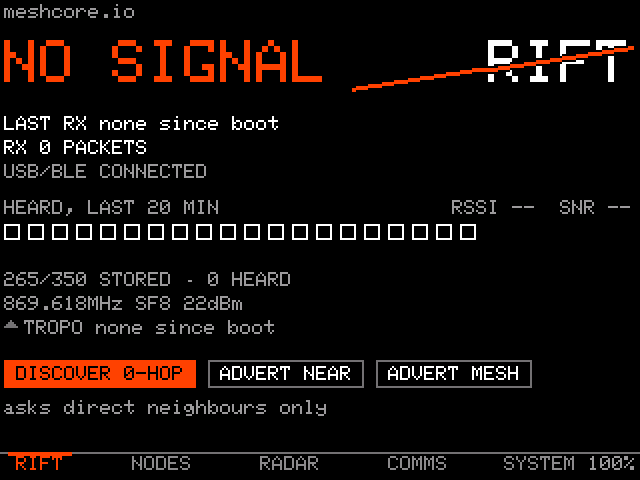
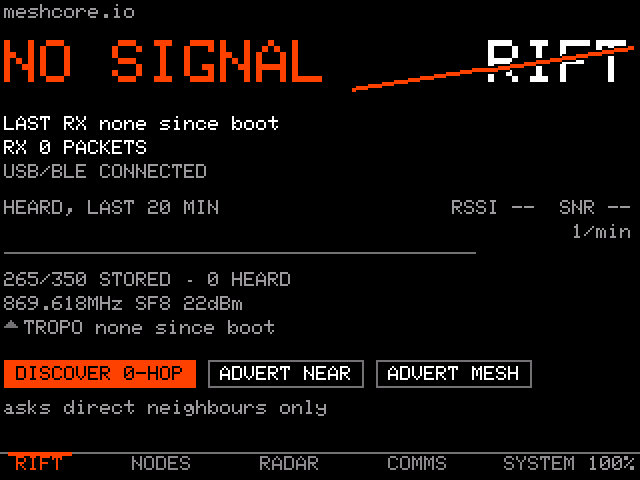
Channel scope joins add and remove in the COMMS list, and the home strip is a graph
The scope setting acts on a channel, so it sits with the other two channel
actions at the end of the CHANNELS section in the conversation list, and leaves
SYSTEM's actions. The flow itself is unchanged and still runs on SYSTEM.

The activity strip on the home screen is a bar graph: twenty bars, one per
minute, each as tall as that minute's share of the busiest minute in the
window, on a 1px baseline, with the busiest count printed beside it so the bars
have a scale. In the accent, at the owner's request. The September design round
reserved the accent for active tab, selection, warning and the wordmark, and
this is a fifth use - stated in the code so it is a decision and not a drift.

Builds.

Changed region(s): [[0.0, 0.4688, 0.75, 0.5312], [0.875, 0.4688, 1.0, 0.5]]

diff --git a/examples/companion_radio/ui-rift/UITask.cpp b/examples/companion_radio/ui-rift/UITask.cpp
@@ -1586,21 +1586,26 @@ public:
                      : (the_mesh.getBLEPin() != 0 ? "BLE PAIRING" : "NO HOST");
     display.drawTextLeftAlign(2, 82, link);
 
-    // The activity strip: twenty cells, one per minute, oldest on the left,
-    // filled when anything was heard in that minute. It replaced a radar
-    // animation that showed only that the screen was drawing, and it is the
-    // literal answer to the screen's question. Read from the air log, which
-    // already carries every receive with its time, so it needs no state of its
-    // own; on a mesh so busy the log turns over inside twenty minutes every
-    // cell is filled anyway. QUIET is carried here in form as well as in the
-    // word's grey, so the grey is not the only bearer.
+    // The activity graph: twenty bars, one per minute, oldest on the left, each
+    // as tall as that minute's share of the busiest minute in the window, on a
+    // 1px baseline in rule. It replaced a radar animation that showed only that
+    // the screen was drawing, and it is the literal answer to the screen's
+    // question. Read from the air log, which already carries every receive with
+    // its time, so it needs no state of its own; on a mesh so busy the log turns
+    // over inside twenty minutes the newest bars are the true ones and the
+    // oldest under-count, which is the honest direction to be wrong in.
+    //
+    // In the accent, at the owner's request. The design round reserved the
+    // accent for active tab, selection, warning and wordmark; this is a fifth
+    // use, stated here so it is a decision and not a drift.
     char tmp[40];
     display.setTextSize(1);
     display.setColor(rift_pal.mid);
     display.drawTextLeftAlign(2, 100, "HEARD, LAST 20 MIN");
     {
-      bool heard[20];
-      for (int i = 0; i < 20; i++) heard[i] = false;
+      const int GX = 2, GY = 110, GH = 16;   // bars grow upward from y GY+GH
+      uint16_t per_min[20];
+      for (int i = 0; i < 20; i++) per_min[i] = 0;
       uint32_t now_ms = (uint32_t) millis();
       RiftRxLog& log = riftRxLog();
       for (int i = 0; i < log.count; i++) {
@@ -1608,13 +1613,24 @@ public:
         if (e == NULL) break;
         if (e->dir != RIFT_AIR_RX) continue;
         uint32_t back = (now_ms - e->at_ms) / 60000u;
-        if (back < 20) heard[19 - back] = true;
+        if (back < 20 && per_min[19 - back] < 0xFFFF) per_min[19 - back]++;
       }
-      display.setColor(rift_pal.fg);
+      uint16_t peak = 1;
+      for (int i = 0; i < 20; i++) if (per_min[i] > peak) peak = per_min[i];
+
+      display.setColor(rift_pal.rule);
+      display.fillRect(GX, GY + GH, 20 * 12 - 4, 1);
+      display.setColor(rift_pal.accent);
       for (int i = 0; i < 20; i++) {
-        if (heard[i]) display.fillRect(2 + 12 * i, 112, 8, 8);
-        else          display.drawRect(2 + 12 * i, 112, 8, 8);
+        if (per_min[i] == 0) continue;
+        int h = 1 + (int) (((long) per_min[i] * (GH - 1) + peak / 2) / peak);
+        if (h > GH) h = GH;
+        display.fillRect(GX + 12 * i, GY + GH - h, 8, h);
       }
+      // the busiest minute, so the bars have a scale
+      snprintf(tmp, sizeof(tmp), "%u/min", (unsigned) peak);
+      display.setColor(rift_pal.mid);
+      display.drawTextRightAlign(316, 112, tmp);
     }
 
     // Two numbers with their names, on the strip's label row. "LINK -80 / -4"
@@ -1935,6 +1951,7 @@ class RiftSystemScreen : public RiftScreen {
 public:
   void beginAddChannel(bool from_comms)    { _return_to_comms = from_comms; activate(IT_CHANNEL); }
   void beginDeleteChannel(bool from_comms) { _return_to_comms = from_comms; activate(IT_DELCHANNEL); }
+  void beginChannelScope(bool from_comms)  { _return_to_comms = from_comms; activate(IT_SCOPE); }
 private:
 
   // shared by render() and handleTouch(), so touch targets follow the layout.
@@ -2809,7 +2826,7 @@ public:
       // list, beside the channels they act on.
       addRow(ROW_GROUP, -1, "ACTIONS");
       for (int i = 0; i < IT_COUNT; i++) {
-        if (i == IT_CHANNEL || i == IT_DELCHANNEL) continue;
+        if (i == IT_CHANNEL || i == IT_DELCHANNEL || i == IT_SCOPE) continue;   // in COMMS
         Row* r = addRow(ROW_ACTION, i, itemLabel(i));
         itemValue(i, tmp, sizeof(tmp));
         setValue(r, tmp, rift_pal.mid);
@@ -5390,7 +5407,7 @@ private:
     // the end of the CHANNELS section because that is where the channels are.
     uint8_t action;
   };
-  static const uint8_t PICK_ADD_CHANNEL = 1, PICK_REMOVE_CHANNEL = 2;
+  static const uint8_t PICK_ADD_CHANNEL = 1, PICK_REMOVE_CHANNEL = 2, PICK_SCOPE = 3;
   PickEntry _picks[RIFT_PICKER_MAX];
   int _pick_count;
   bool _pick_truncated;
@@ -5651,9 +5668,11 @@ private:
     // The two channel actions close the section. They used to be SYSTEM actions,
     // two screens away from the list they change; the flows still live there and
     // come back here when they are done.
-    for (int a = PICK_ADD_CHANNEL; a <= PICK_REMOVE_CHANNEL && _pick_count < RIFT_PICKER_MAX; a++) {
+    for (int a = PICK_ADD_CHANNEL; a <= PICK_SCOPE && _pick_count < RIFT_PICKER_MAX; a++) {
       PickEntry* e = &_picks[_pick_count++];
-      StrHelper::strncpy(e->name, a == PICK_ADD_CHANNEL ? "+ Add channel" : "- Remove channel", sizeof(e->name));
+      StrHelper::strncpy(e->name, a == PICK_ADD_CHANNEL ? "+ Add channel"
+                                : a == PICK_REMOVE_CHANNEL ? "- Remove channel"
+                                                           : "  Channel scope", sizeof(e->name));
       e->is_channel = true;
       e->channel_idx = 0xFF;
       e->action = (uint8_t) a;
@@ -6079,8 +6098,9 @@ private:
     _pick_idx = i;
     if (e->action != 0) {
       _picking = false;
-      if (e->action == PICK_ADD_CHANNEL) _task->startChannelAdd();
-      else                               _task->startChannelRemove();
+      if (e->action == PICK_ADD_CHANNEL)         _task->startChannelAdd();
+      else if (e->action == PICK_REMOVE_CHANNEL) _task->startChannelRemove();
+      else                                       _task->startChannelScope();
       return;
     }
     _target_is_channel = e->is_channel;
@@ -8051,6 +8071,13 @@ void UITask::startChannelRemove() {
   nav_idx = RIFT_NAV_SYSTEM;
   setCurrScreen(nav_screens[RIFT_NAV_SYSTEM]);
   ((RiftSystemScreen*) nav_screens[RIFT_NAV_SYSTEM])->beginDeleteChannel(true);
+}
+
+void UITask::startChannelScope() {
+  dismissOverlay();
+  nav_idx = RIFT_NAV_SYSTEM;
+  setCurrScreen(nav_screens[RIFT_NAV_SYSTEM]);
+  ((RiftSystemScreen*) nav_screens[RIFT_NAV_SYSTEM])->beginChannelScope(true);
 }
 
 /*

diff --git a/examples/companion_radio/ui-rift/UITask.h b/examples/companion_radio/ui-rift/UITask.h
@@ -297,6 +297,7 @@ public:
   // They run on SYSTEM, where they were written, and return to COMMS when done.
   void startChannelAdd();
   void startChannelRemove();
+  void startChannelScope();
   // last key code the UI saw - reading this on screen is what identified the
   // keyboard co-processor repeating held keys
   int lastKeyCode() const { return _last_key; }
